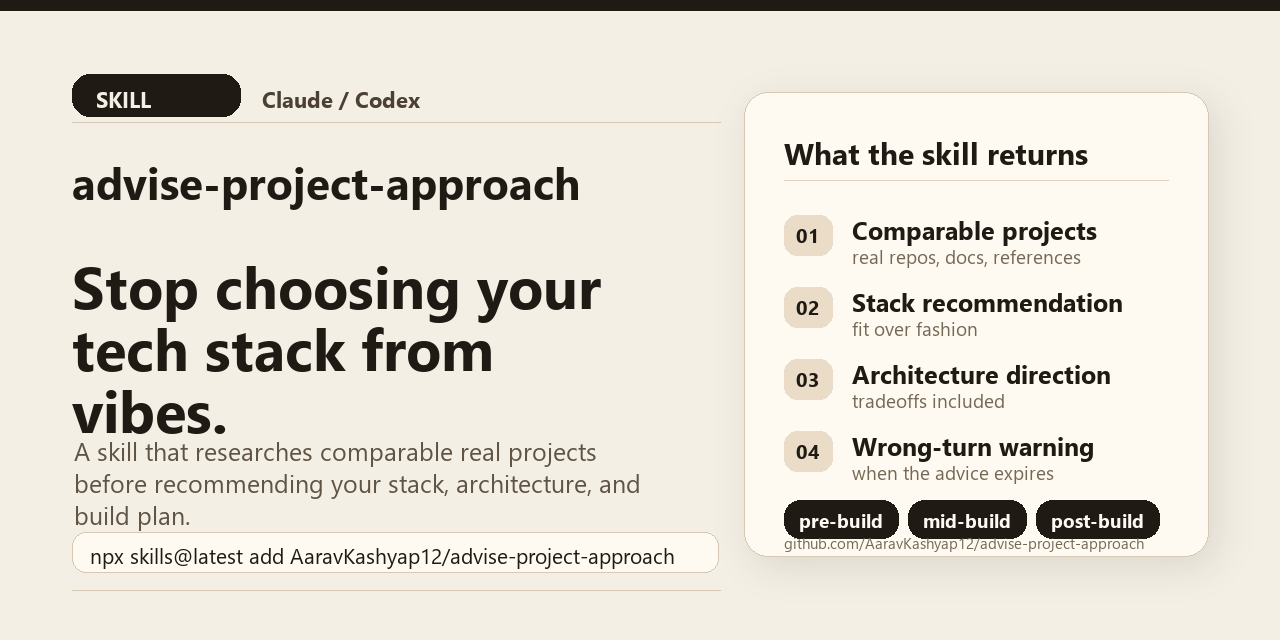
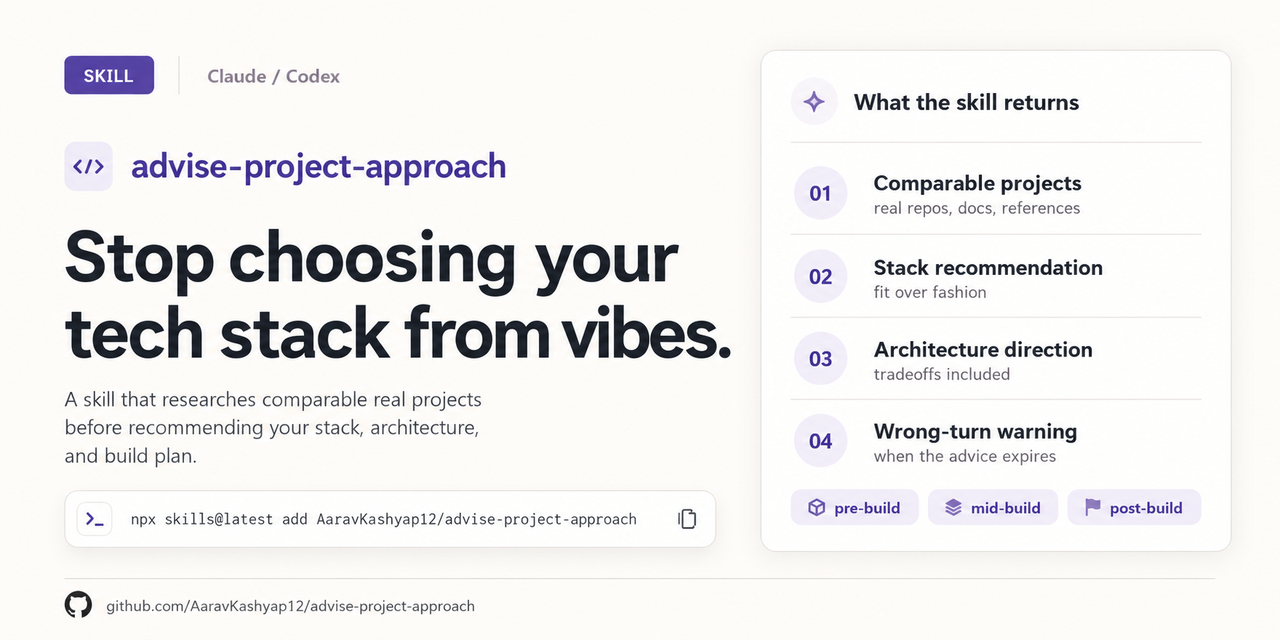
Replace social preview with polished launch image

Changed region(s): [[0.0312, 0.0625, 0.9688, 0.9688], [0.0, 0.0, 1.0, 0.0312], [0.0312, 0.0625, 0.3438, 0.1875]]

diff --git a/README.md b/README.md
@@ -178,7 +178,6 @@ Stack and Architecture Verdict / Risks and References
 |   |-- midbuild-express-api.md
 |   `-- postbuild-fastapi-template.md
 |-- scripts/
-|   |-- generate_social_preview.py
 |   |-- package_skill.py
 |   `-- validate_skill.py
 `-- tests/
@@ -198,12 +197,6 @@ python scripts/validate_skill.py
 ```
 
 The GitHub Actions workflow runs the same checks and fails if the generated package differs from what is committed.
-
-Regenerate the launch/social preview image:
-
-```bash
-python scripts/generate_social_preview.py
-```
 
 ## Tested Against
 